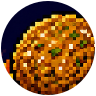
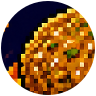
Iron Dome v23: preloaded art worlds, receding pixel buildings, clean falafel sprites

diff --git a/irondome/index.html b/irondome/index.html
@@ -279,7 +279,7 @@
    ========================================================= */
 
 const $ = id => document.getElementById(id);
-const GAME_VERSION = 'v21';
+const GAME_VERSION = 'v23';
 const INBOUND = new URLSearchParams(location.search);
 const REF = INBOUND.get('ref') || '';
 console.log('Iron Dome ' + GAME_VERSION);
@@ -748,7 +748,7 @@ function buildSkyline(){
     const r = Math.abs(Math.sin((G.levelIdx + 1) * 41.3 + ((i * 3 + G.levelIdx) % n) * 12.3));
     arr.push({
       x: bw * (i + 1) + bw * 0.08, w: bw * 0.84,
-      h: 48 + r * Math.min(105, H * 0.13),
+      h: 32 + r * Math.min(56, H * 0.07),   // low-rise: the art skyline behind stays visible
       alive: prev[i] ? prev[i].alive : true,
       hp: prev[i] ? prev[i].hp : 1 + save.up.launchers,   // 'City Armor' upgrade
       win: 2 + Math.floor(r * 3)
@@ -1525,31 +1525,47 @@ function drawCity(){
   cx.strokeStyle = 'rgba(62,230,255,0.35)'; cx.lineWidth = 2;
   cx.beginPath(); cx.moveTo(0, GROUND); cx.lineTo(W, GROUND); cx.stroke();
 
-  // buildings
+  // buildings — chunky pixel art, matched to the world art (4px grid, hard edges)
+  const Q = 4, snap = v => Math.round(v / Q) * Q;
   for (const b of G.buildings){
+    const bx = snap(b.x), bw = snap(b.w), bh = snap(b.h);
     if (b.alive){
-      cx.fillStyle = '#3a5cae';
-      cx.fillRect(b.x, GROUND - b.h, b.w, b.h);
+      // body: two-tone with a shaded right column, like the art's towers
+      cx.fillStyle = '#1b2c58';
+      cx.fillRect(bx, GROUND - bh, bw, bh);
       cx.fillStyle = '#16244a';
-      cx.fillRect(b.x, GROUND - b.h, b.w, 4);   // roof line for definition
-      cx.fillStyle = acc; cx.globalAlpha = 0.95;
-      // windows
-      const rows = Math.floor(b.h / 16), cols = b.win;
+      cx.fillRect(bx + bw - Q * 2, GROUND - bh, Q * 2, bh);   // shade edge
+      cx.fillRect(bx, GROUND - bh, bw, Q);                    // roof slab
+      cx.fillStyle = '#0c1630';
+      cx.fillRect(bx + Q, GROUND - bh - Q, Q, Q);             // roof pixel detail
+      cx.fillRect(bx + bw - Q * 3, GROUND - bh - Q * 2, Q, Q * 2);  // antenna
+      // windows: crisp gold pixels on the grid, a few unlit, one cyan
+      const rows = Math.floor((bh - Q * 3) / (Q * 3)), cols = Math.max(2, Math.floor(bw / (Q * 3)));
       for (let r = 0; r < rows; r++)
-        for (let c = 0; c < cols; c++)
-          if ((r * 7 + c * 3 + b.win) % 3 !== 0)
-            cx.fillRect(b.x + 5 + c * (b.w - 10) / cols, GROUND - b.h + 6 + r * 16, 4, 6);
-      cx.globalAlpha = 1;
+        for (let c = 0; c < cols; c++){
+          const k = (r * 7 + c * 3 + b.win) % 7;
+          if (k === 0) continue;                              // dark window
+          cx.fillStyle = k === 5 ? '#6fe3ff' : '#ffd166';
+          cx.fillRect(bx + Q + c * Q * 3, GROUND - bh + Q * 2 + r * Q * 3, Q, Q);
+        }
+      // damaged (armor absorbed a hit): cracked pixels + smoke tint
+      if (b.hp !== undefined && b.hp < 1 + save.up.launchers){
+        cx.fillStyle = '#0c1630';
+        for (let i = 0; i < 6; i++)
+          cx.fillRect(bx + ((i * 37) % (bw - Q)), GROUND - bh + ((i * 53) % (bh - Q)), Q, Q);
+      }
     } else {
-      // rubble
+      // rubble: a stepped pixel mound with embers
+      cx.fillStyle = '#1a2747';
+      cx.fillRect(bx, GROUND - Q * 2, bw, Q * 2);
+      cx.fillRect(bx + Q, GROUND - Q * 4, bw - Q * 2, Q * 2);
+      cx.fillRect(bx + Q * 3, GROUND - Q * 5, bw - Q * 6, Q);
       cx.fillStyle = '#26314f';
-      cx.beginPath();
-      cx.moveTo(b.x, GROUND);
-      cx.lineTo(b.x + b.w * 0.2, GROUND - 12);
-      cx.lineTo(b.x + b.w * 0.5, GROUND - 6);
-      cx.lineTo(b.x + b.w * 0.8, GROUND - 14);
-      cx.lineTo(b.x + b.w, GROUND);
-      cx.fill();
+      cx.fillRect(bx + Q * 2, GROUND - Q * 3, Q * 2, Q);
+      cx.fillRect(bx + bw - Q * 4, GROUND - Q * 3, Q * 2, Q);
+      cx.fillStyle = '#ff8c42'; cx.globalAlpha = 0.5 + 0.4 * Math.abs(Math.sin(performance.now() / 300));
+      cx.fillRect(bx + Q * 3, GROUND - Q * 3, Q, Q);          // glowing ember
+      cx.globalAlpha = 1;
     }
   }
 
@@ -2201,6 +2217,7 @@ for (let i = 0; i < 70; i++)
   stars.push({ x: Math.random(), y: Math.random(), s: Math.random() < 0.8 ? 1 : 2, tw: Math.random() * 6.28 });
 resize();
 $('verTag').textContent = '🛡 ' + GAME_VERSION;
+for (let i = 0; i < 10; i++) levelBg(i);   // warm all worlds while the menu shows
 { // incoming challenge link? show the gauntlet
   const cb = parseInt(INBOUND.get('b'), 10), cc = INBOUND.get('c');
   if (cb > 0){

diff --git a/irondome/sw.js b/irondome/sw.js
@@ -1,5 +1,5 @@
 /* Iron Dome — offline-first service worker */
-const CACHE = 'irondome-v21';
+const CACHE = 'irondome-v23';
 const ASSETS = [
   './',
   './index.html',
@@ -8,6 +8,15 @@ const ASSETS = [
   './icon-512.png',
   './menu-bg.jpg',
   './bg/bg1.jpg',
+  './bg/bg2.jpg',
+  './bg/bg3.jpg',
+  './bg/bg4.jpg',
+  './bg/bg5.jpg',
+  './bg/bg6.jpg',
+  './bg/bg7.jpg',
+  './bg/bg8.jpg',
+  './bg/bg9.jpg',
+  './bg/bg10.jpg',
   './bg/falafel1.png',
   './bg/falafel2.png',
   './bg/falafel3.png'